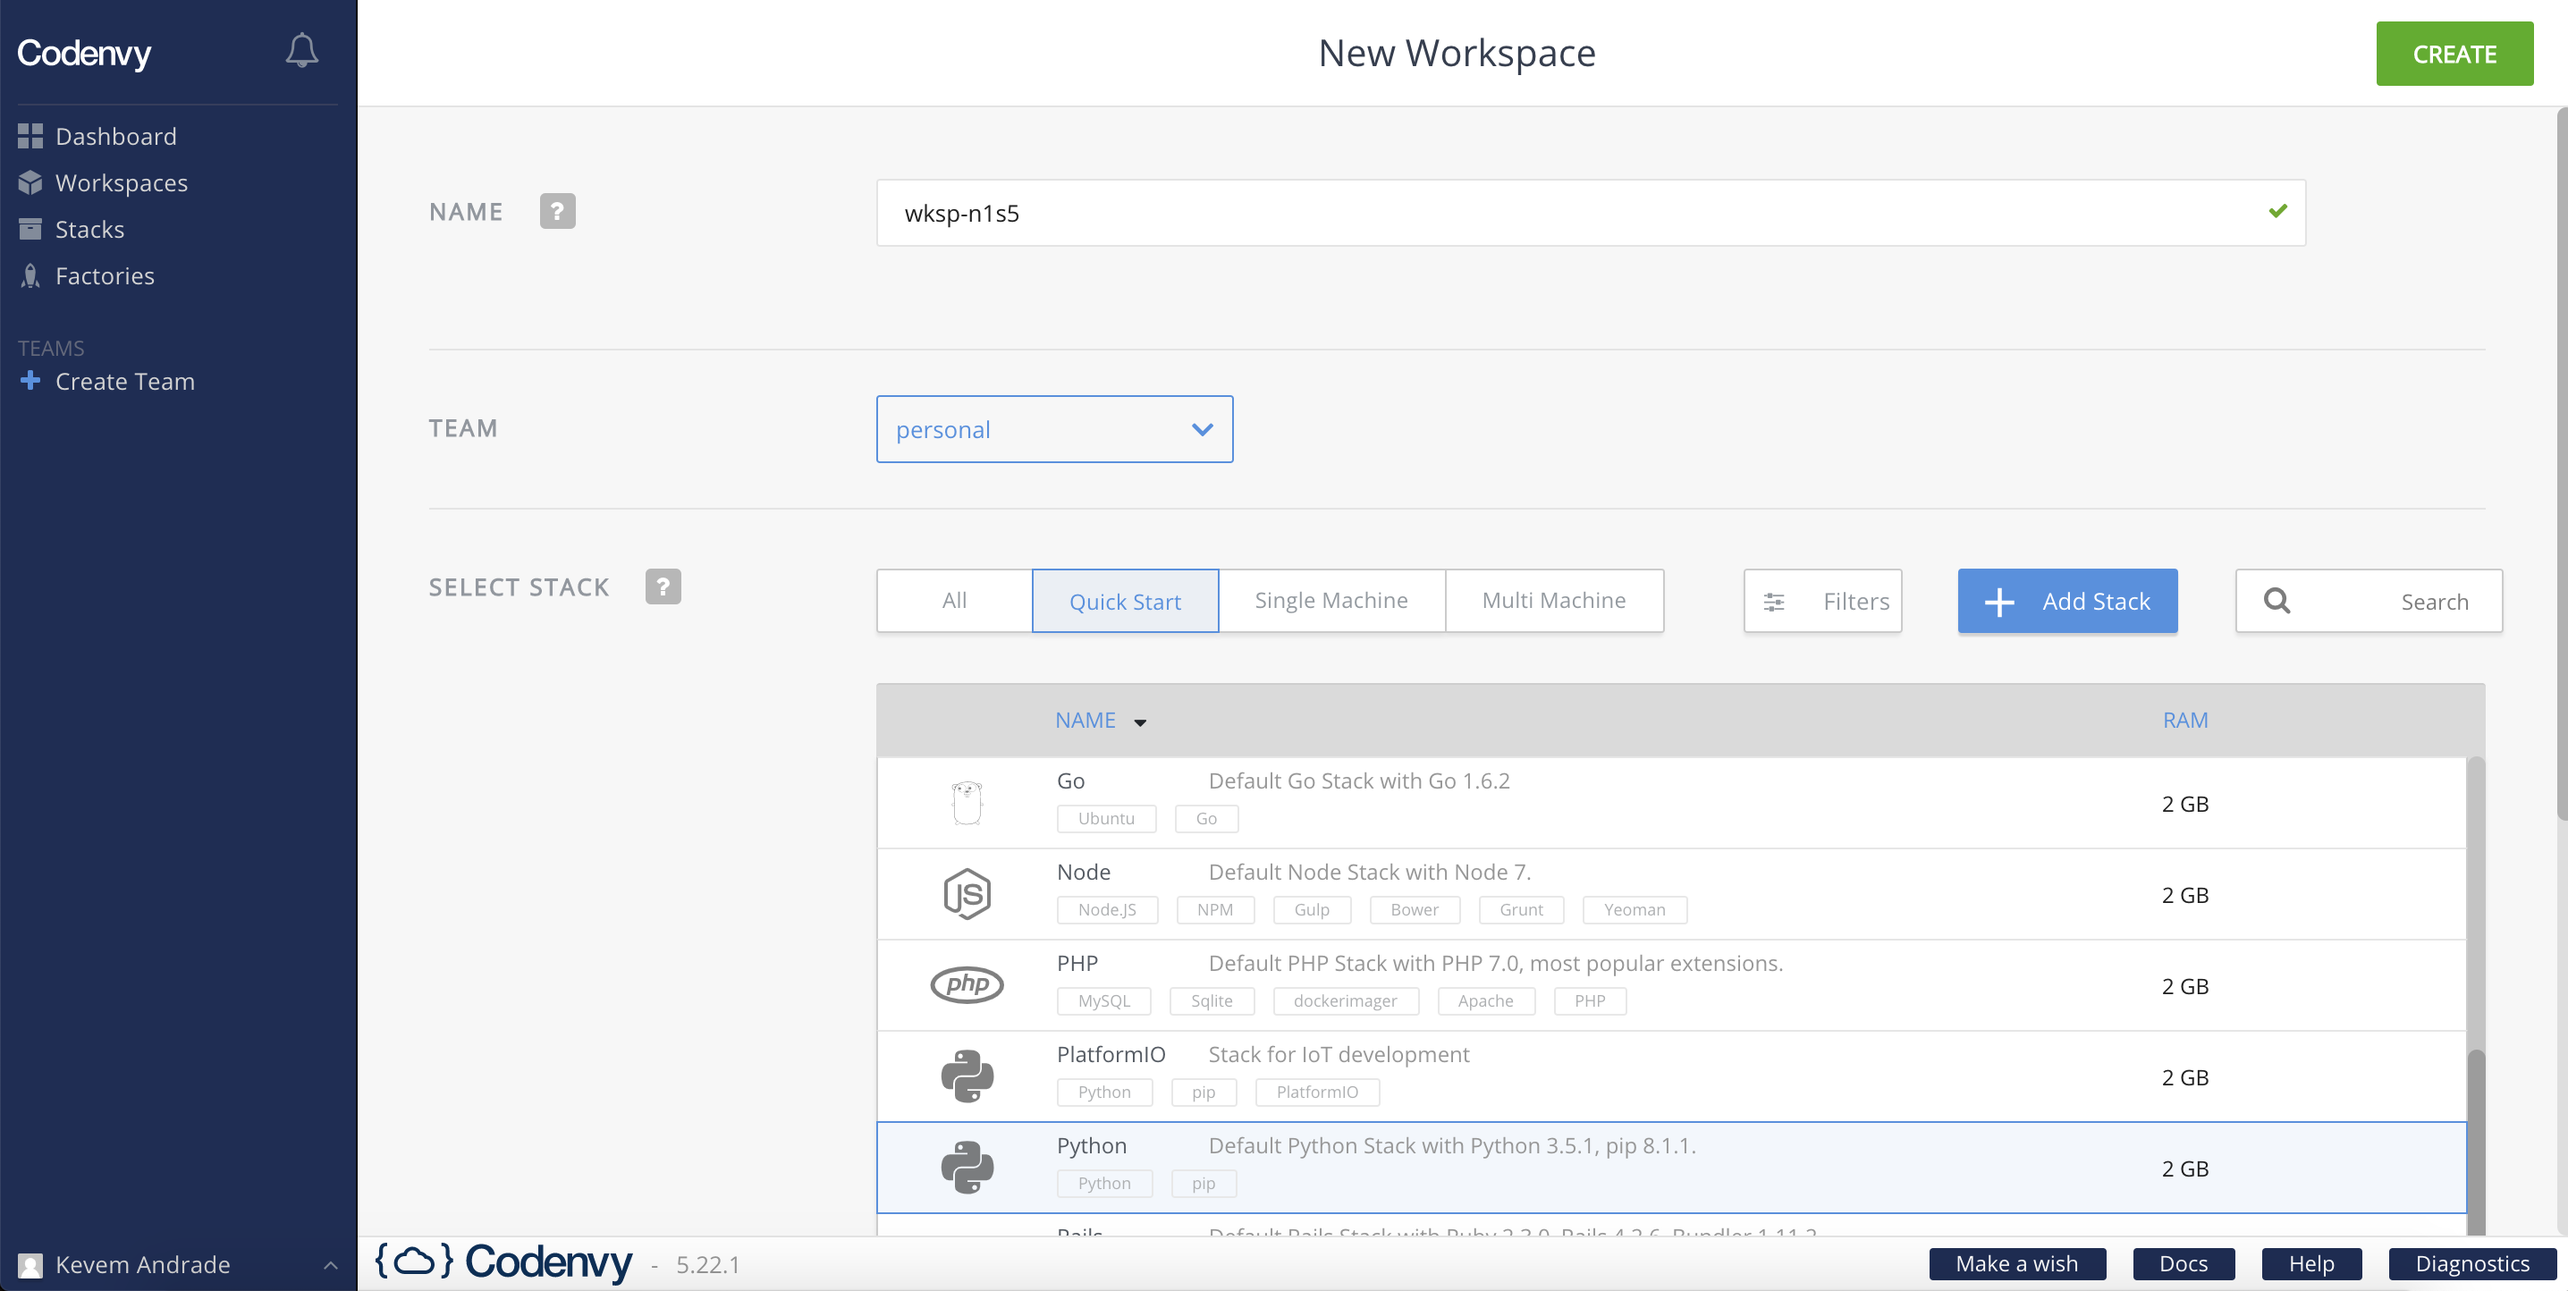
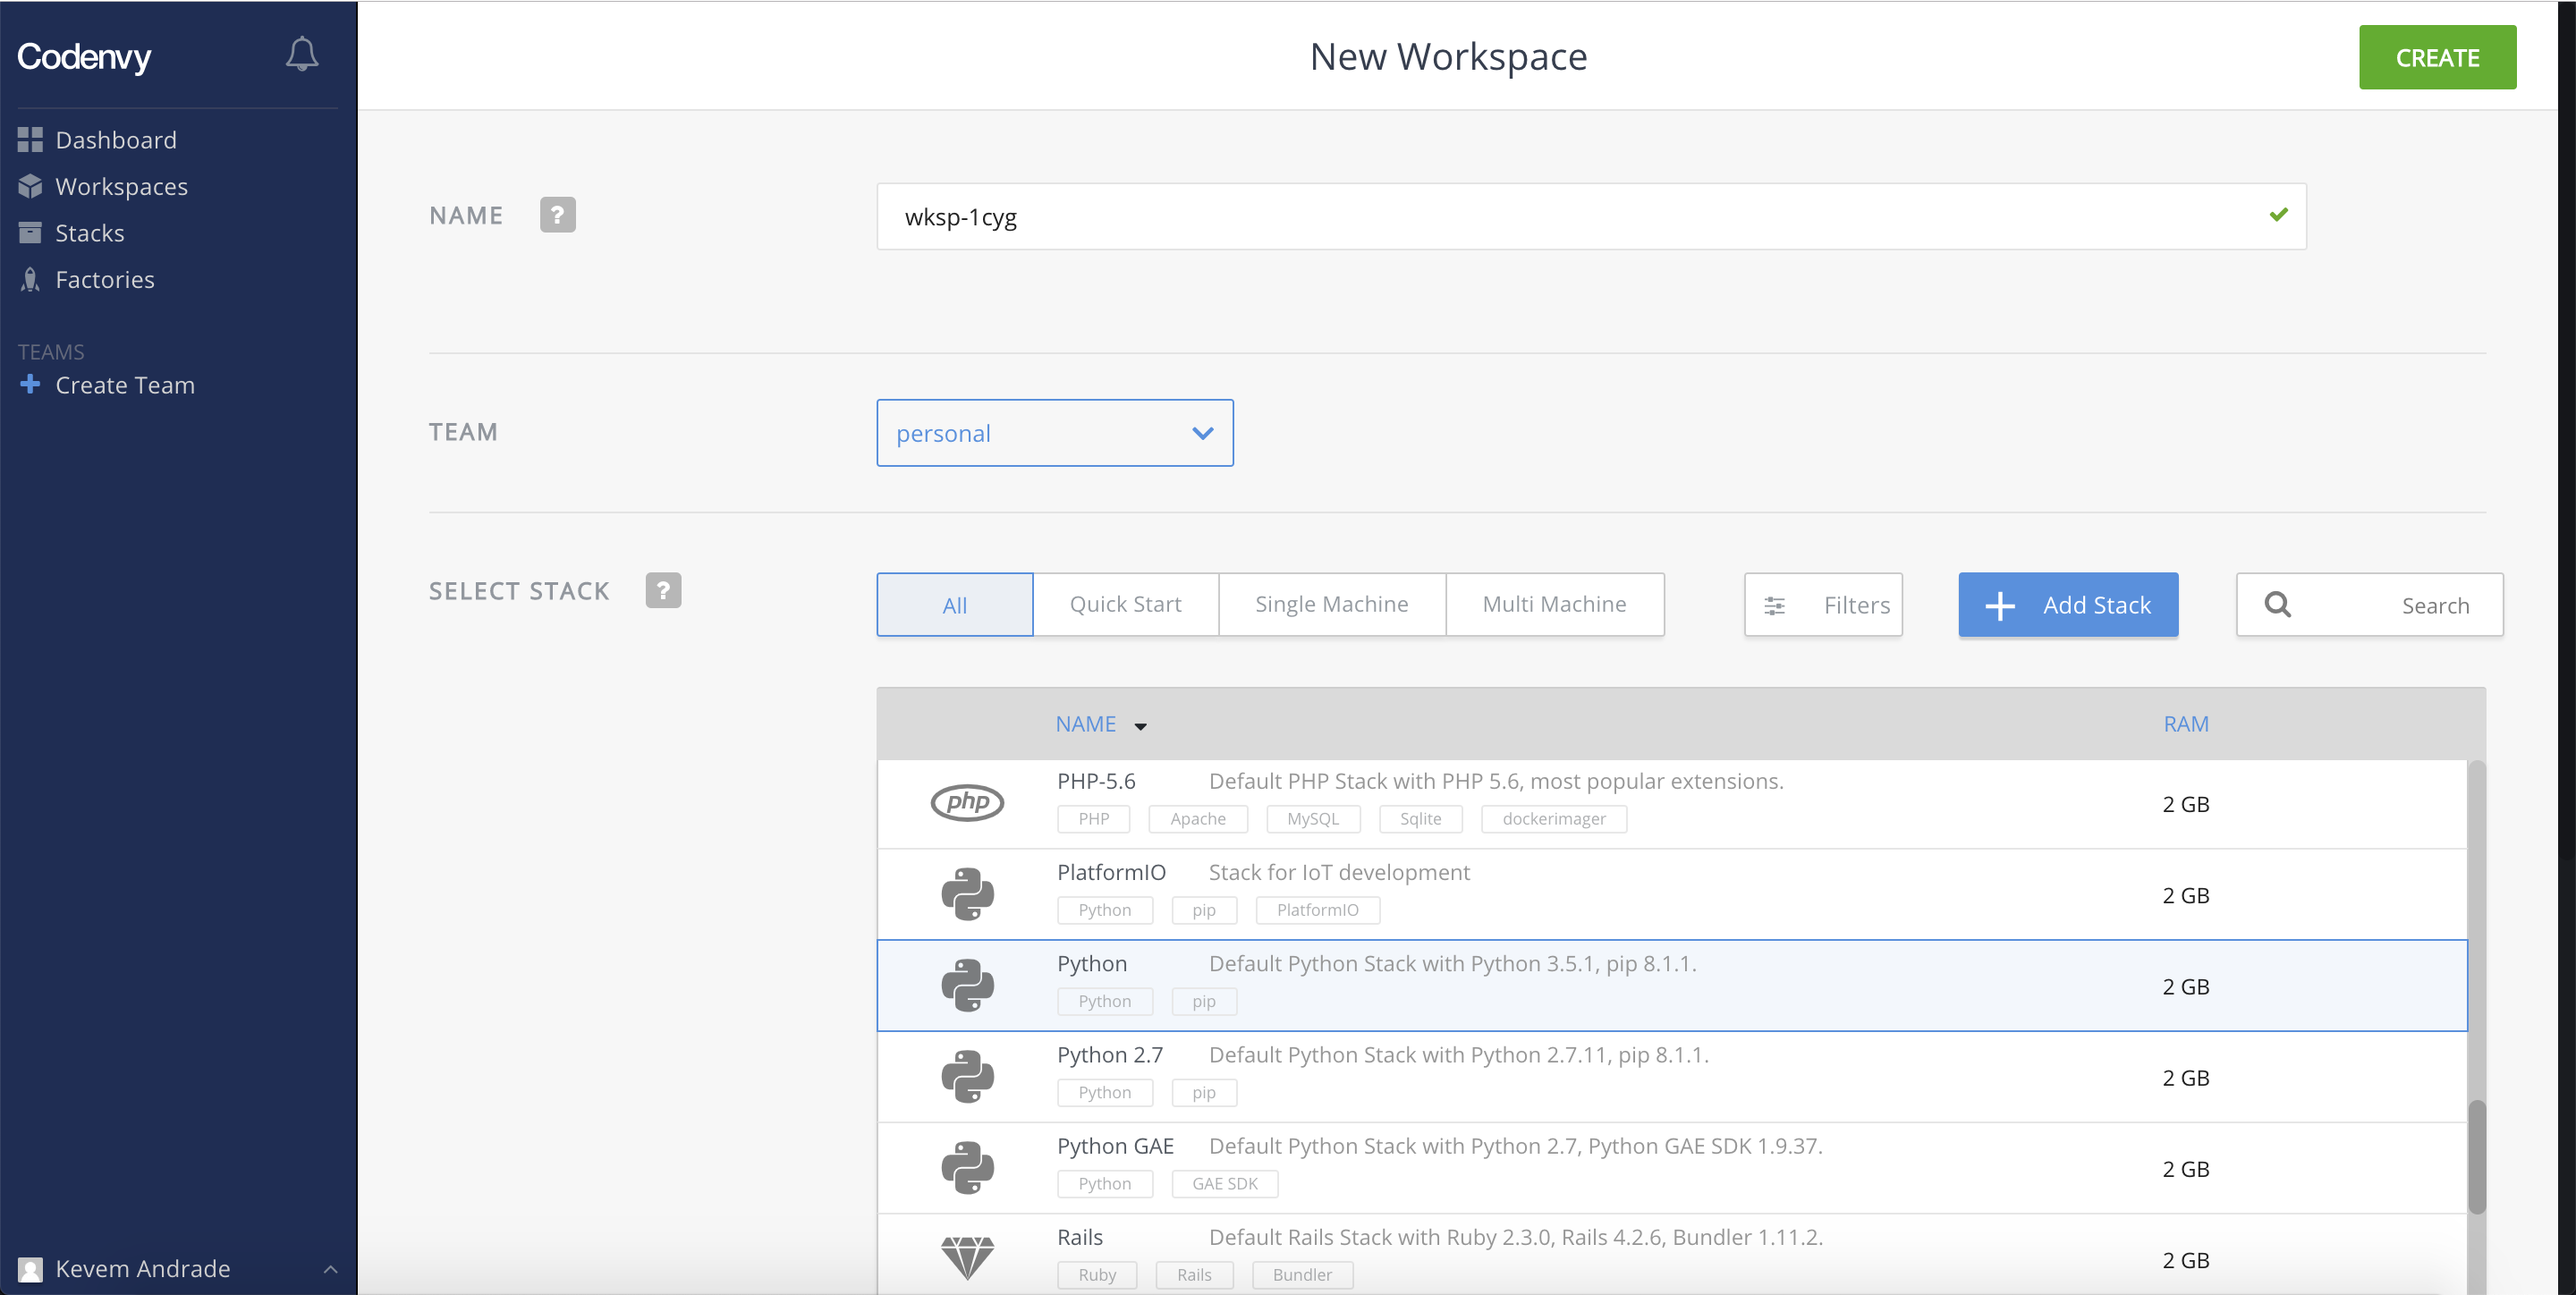
Atualiza a tela de seleção da stack (o projeto do blog usa a versão mais atualizada do Python - 3.5.1)

diff --git a/codenvy/dashboard.md b/codenvy/dashboard.md
@@ -10,6 +10,8 @@ Na tela que se abriu, identifique a secção _**SELECT STACK**_ e selecione a op
 
 ![selecionando_python](selecionando_python.png)
 
+Para este tutorial, iremos usar a versão mais atualizada do Python.
+
 No final da página ou, no cabeçalho, do lado superior direito, clique na opção _**CREATE**"_ para confirmar a criação do ambiente.
 Uma nova janela com o processamento da criação do ambiente irá surgir e, ao final, aparecerá uma tela parecida com essa abaixo.
 
